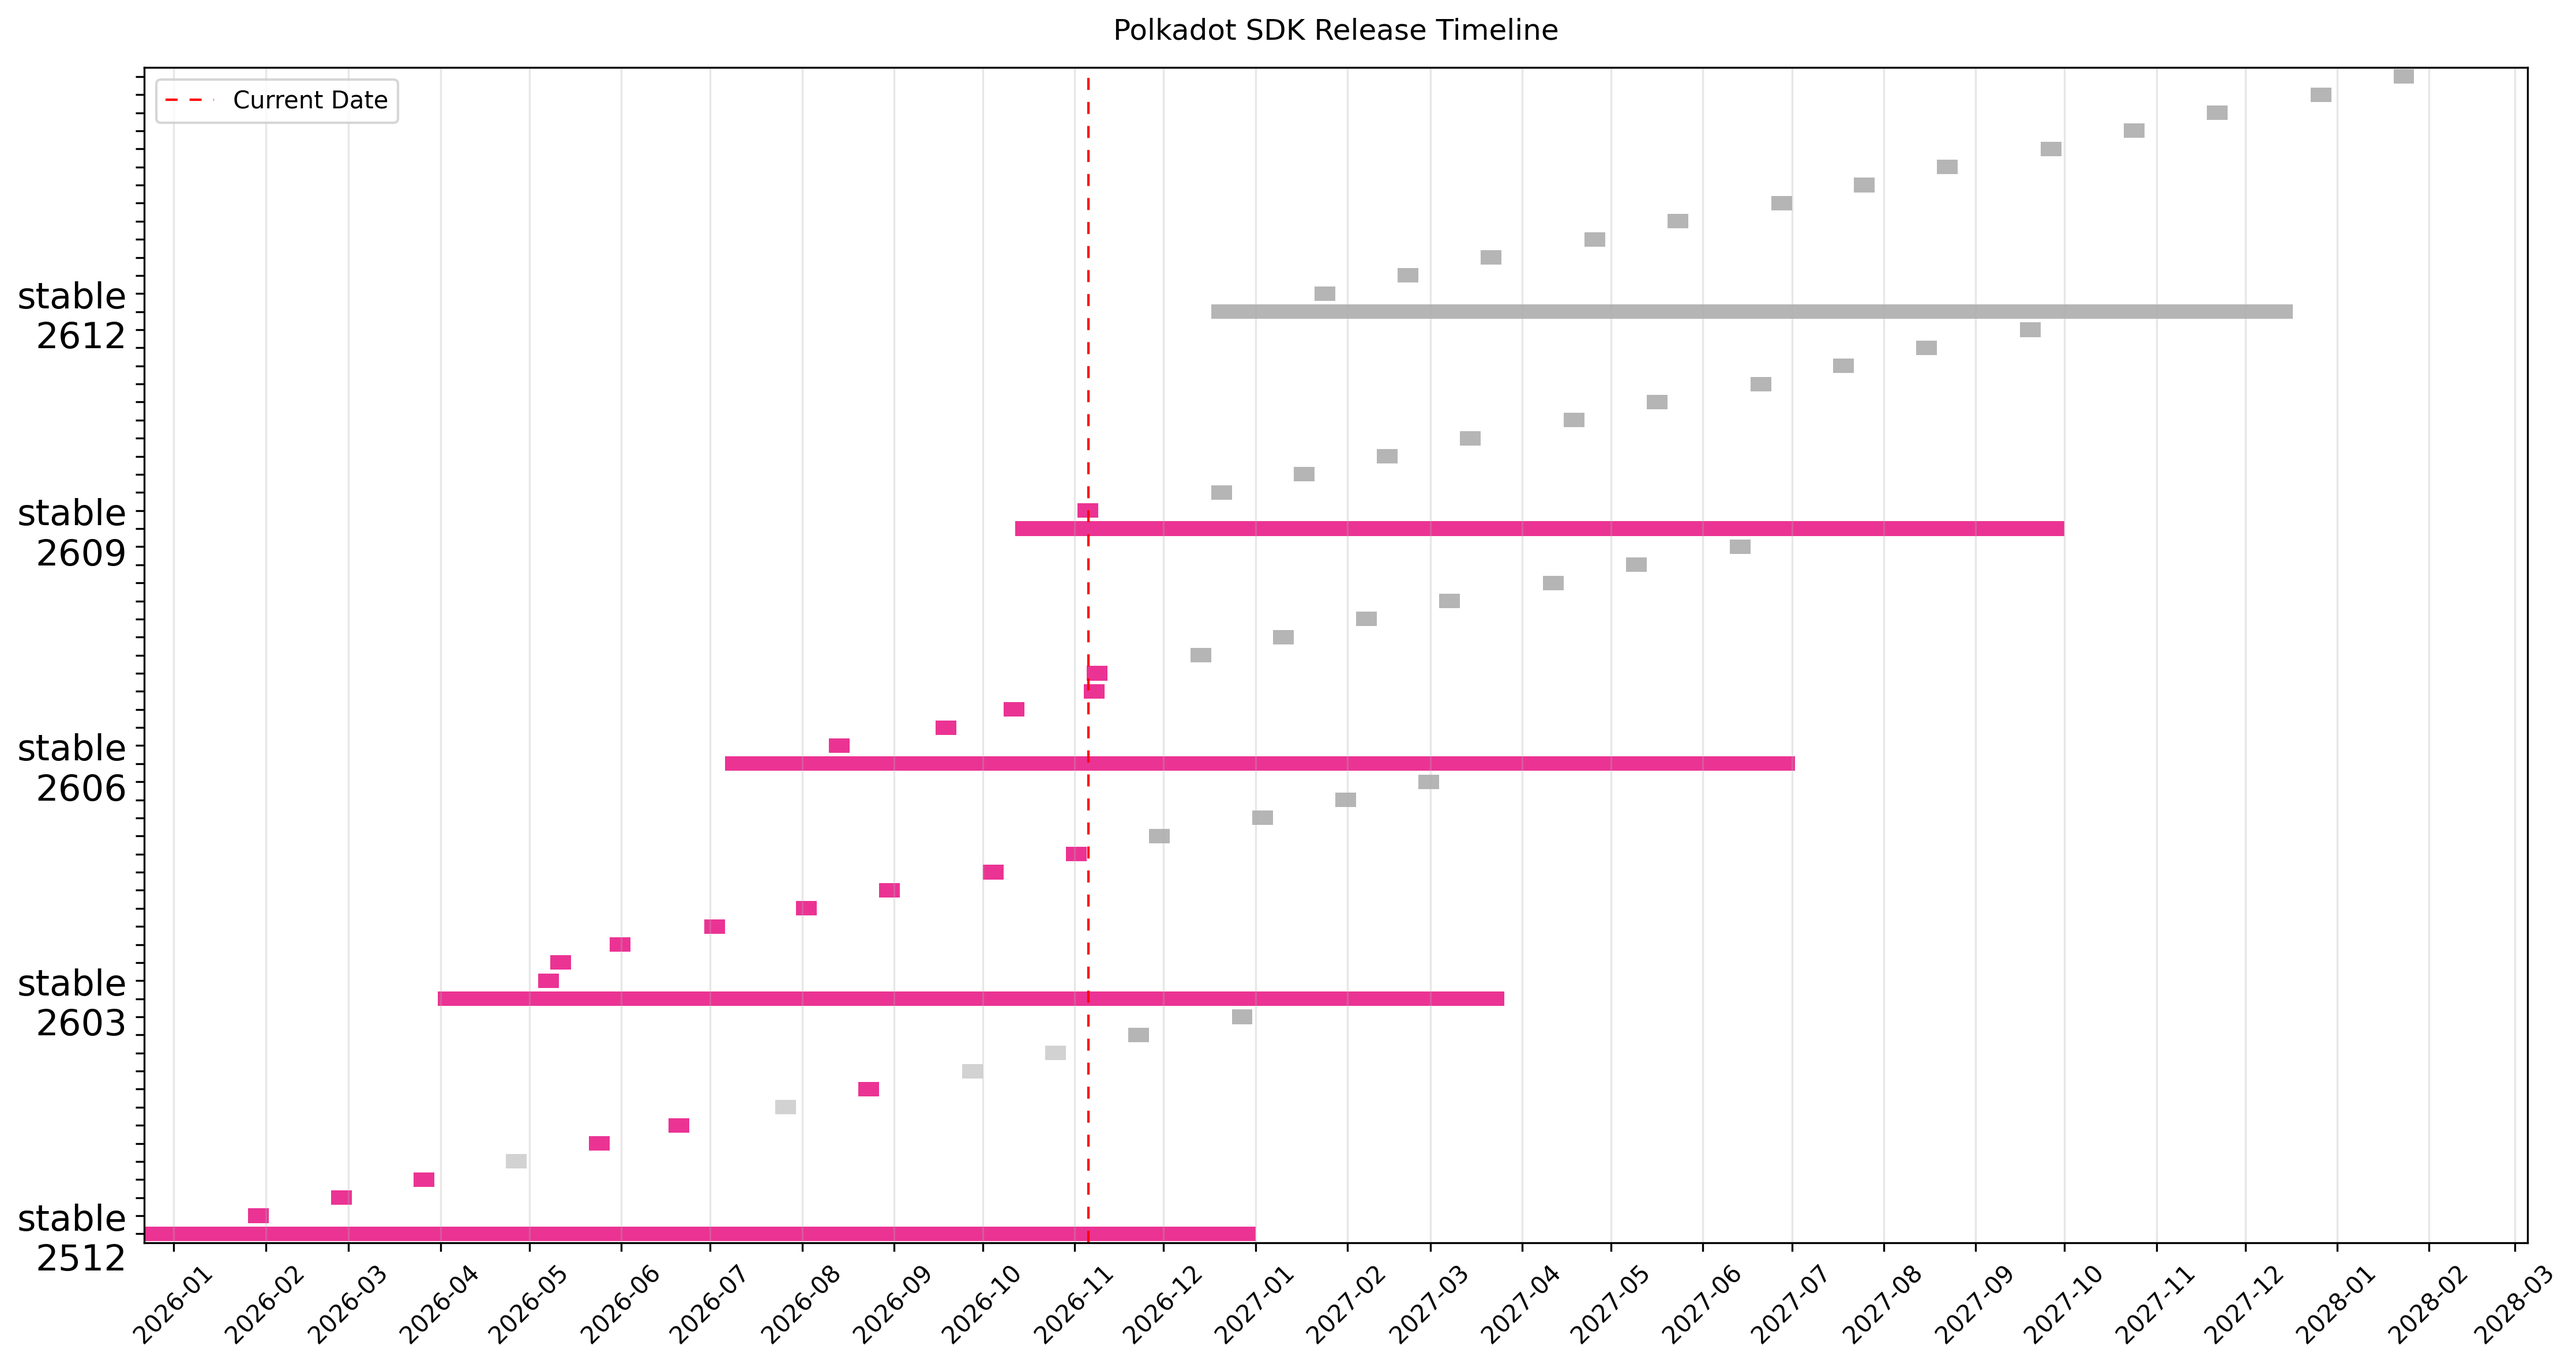
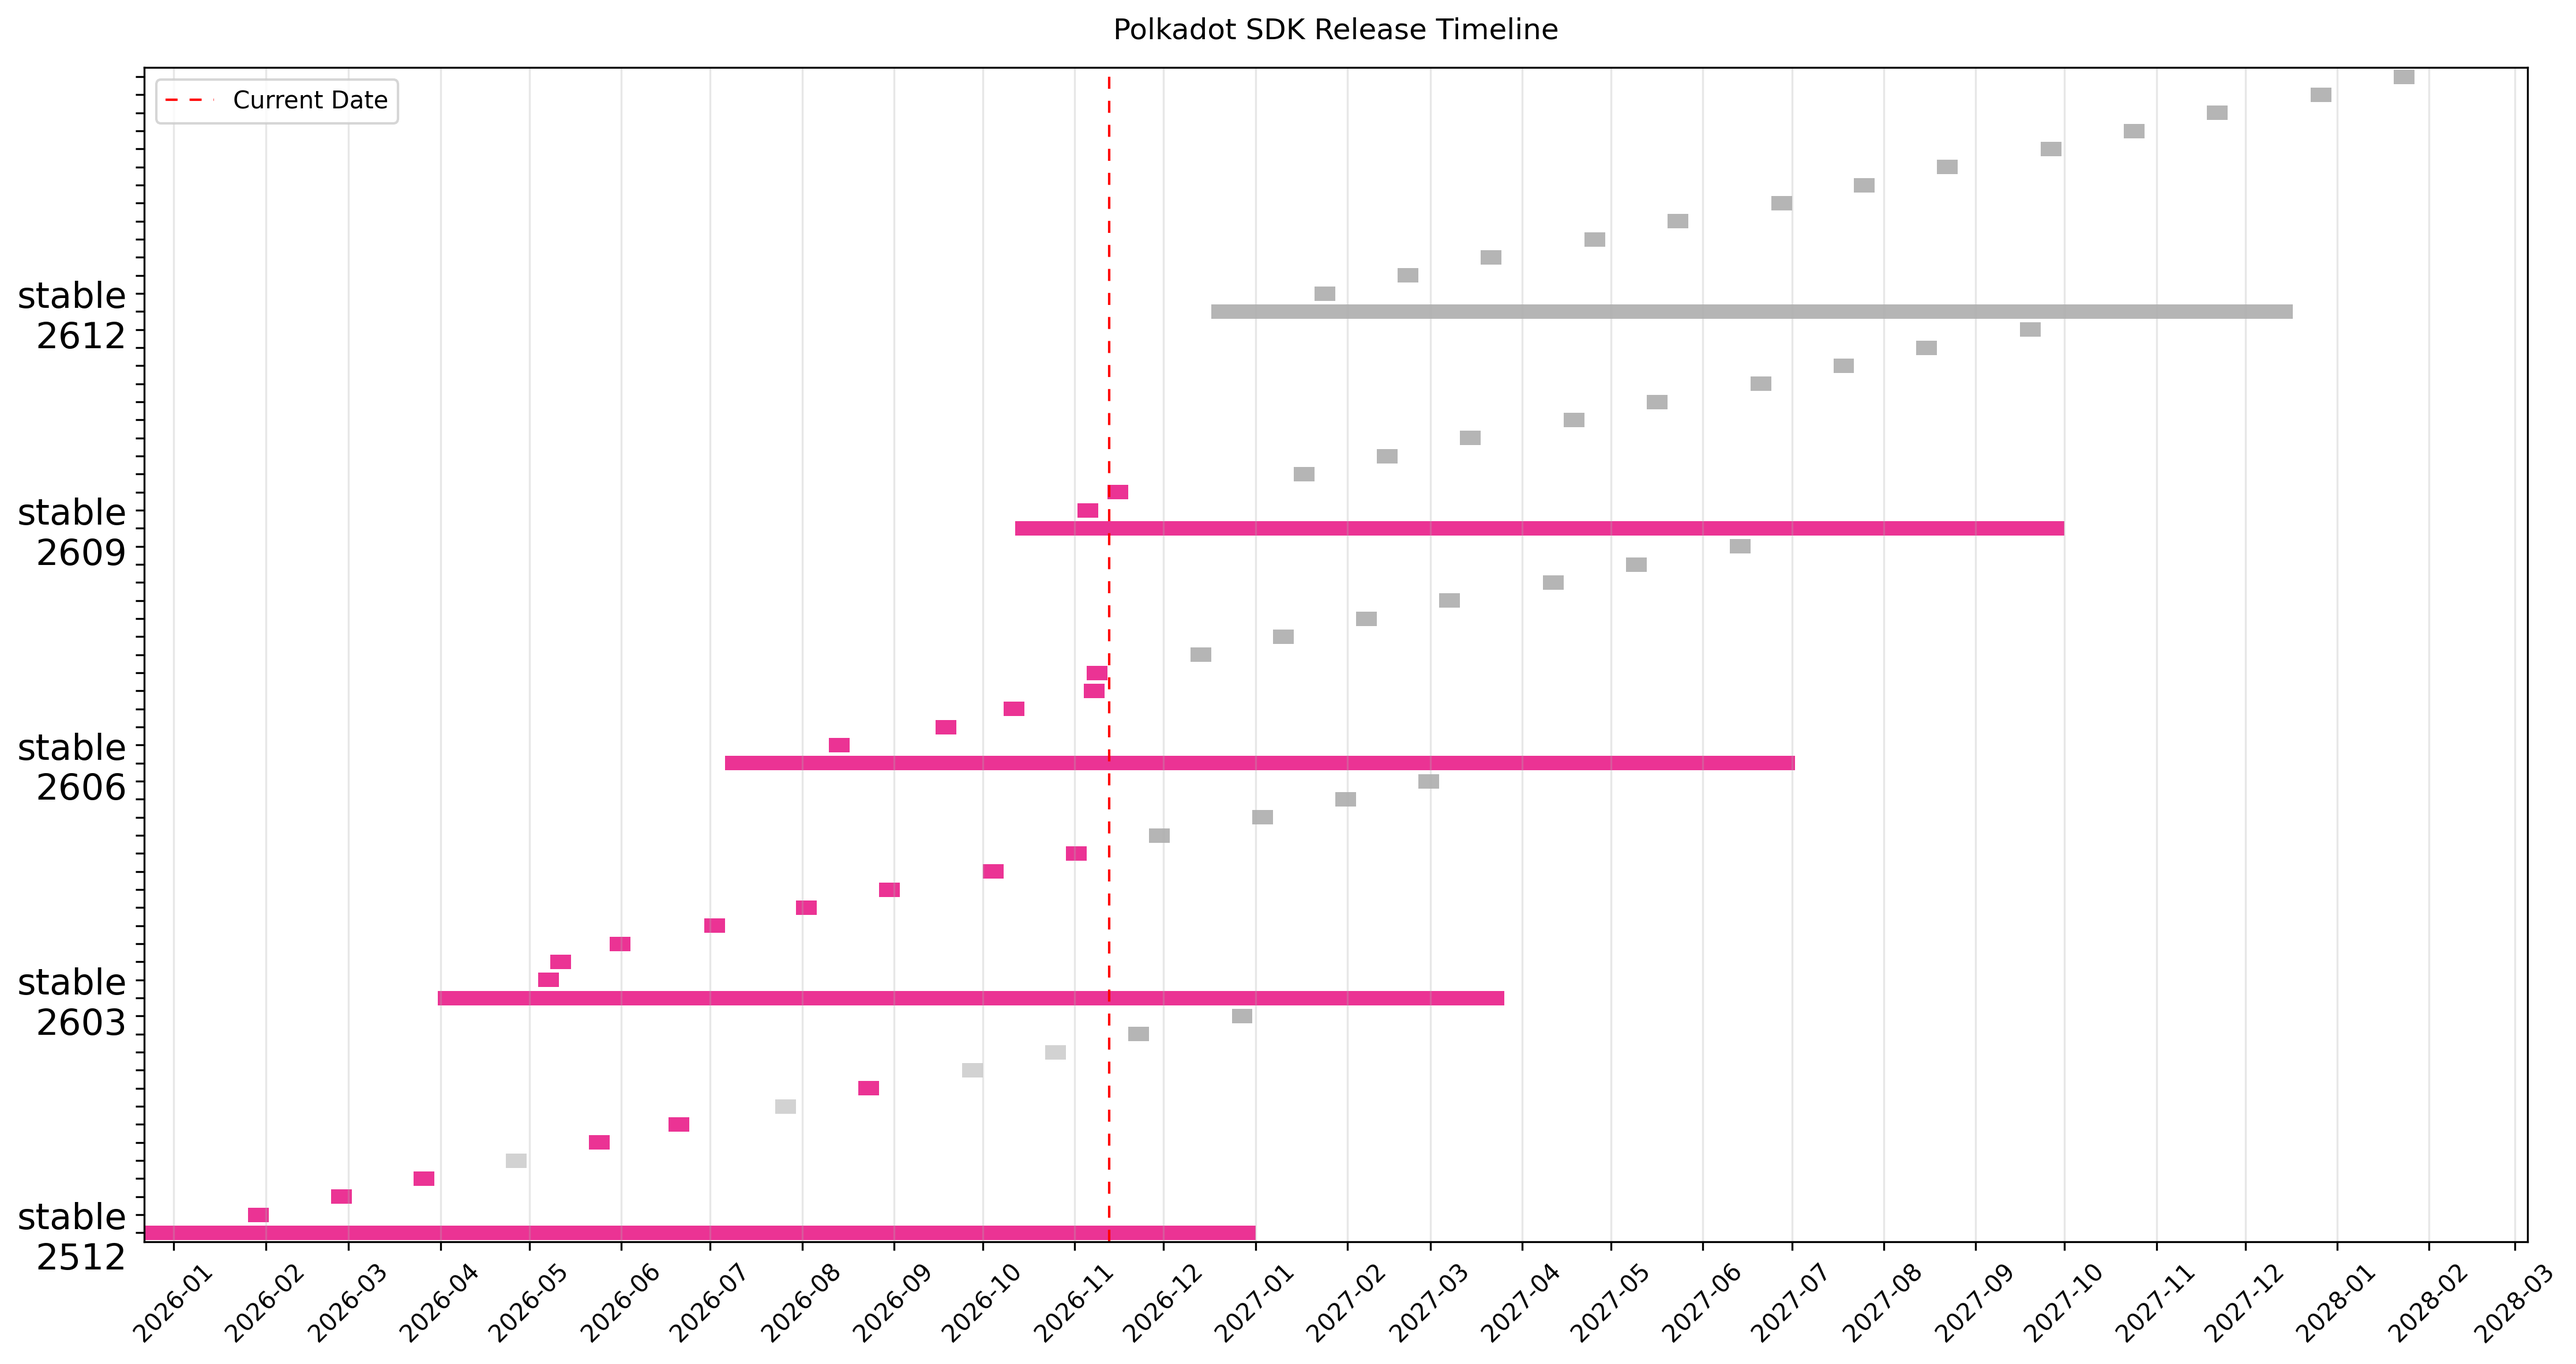
Release stable2609-2

diff --git a/README.md b/README.md
@@ -26,9 +26,10 @@ Planned and historic release dates:
 | &nbsp;&nbsp;[11 more planned](CALENDAR.md) |  |  | | |
 | **stable2609** | 1.25.0 | 2026-08-17 | 2026-10-12 | 2027-10-01 | [Released](https://github.com/paritytech/polkadot-sdk/releases/tag/polkadot-stable2609) |
 | &nbsp;&nbsp;stable2609-1 | 1.25.1 | 2026-11-02 | 2026-11-02 |  | [Released](https://github.com/paritytech/polkadot-sdk/releases/tag/polkadot-stable2609-1) |
-| &nbsp;&nbsp;stable2609-2 | 1.25.2 | 2026-12-14 | 2026-12-17 |  | Planned |
+| &nbsp;&nbsp;stable2609-2 | 1.25.2 | 2026-11-12 | 2026-11-12 |  | [Released](https://github.com/paritytech/polkadot-sdk/releases/tag/polkadot-stable2609-2) |
 | &nbsp;&nbsp;stable2609-3 | 1.25.3 | 2027-01-11 | 2027-01-14 |  | Planned |
-| &nbsp;&nbsp;[8 more planned](CALENDAR.md) |  |  | | |
+| &nbsp;&nbsp;stable2609-4 | 1.25.4 | 2027-02-08 | 2027-02-11 |  | Planned |
+| &nbsp;&nbsp;[7 more planned](CALENDAR.md) |  |  | | |
 | **stable2606** | 1.24.0 | 2026-05-18 | 2026-07-06 | 2027-07-02 | [Released](https://github.com/paritytech/polkadot-sdk/releases/tag/polkadot-stable2606) |
 | &nbsp;&nbsp;stable2606-4 | 1.24.4 | 2026-11-04 | 2026-11-04 |  | [Released](https://github.com/paritytech/polkadot-sdk/releases/tag/polkadot-stable2606-4) |
 | &nbsp;&nbsp;stable2606-5 | 1.24.5 | 2026-11-05 | 2026-11-05 |  | [Released](https://github.com/paritytech/polkadot-sdk/releases/tag/polkadot-stable2606-5) |

diff --git a/CALENDAR.md b/CALENDAR.md
@@ -24,7 +24,7 @@ Full untruncated version index.
 | &nbsp;&nbsp;stable2612-13 | 1.26.13 | 2028-01-17 | 2028-01-20 |  | Planned |
 | **stable2609** | 1.25.0 | 2026-08-17 | 2026-10-12 | 2027-10-01 | [Released](https://github.com/paritytech/polkadot-sdk/releases/tag/polkadot-stable2609) |
 | &nbsp;&nbsp;stable2609-1 | 1.25.1 | 2026-11-02 | 2026-11-02 |  | [Released](https://github.com/paritytech/polkadot-sdk/releases/tag/polkadot-stable2609-1) |
-| &nbsp;&nbsp;stable2609-2 | 1.25.2 | 2026-12-14 | 2026-12-17 |  | Planned |
+| &nbsp;&nbsp;stable2609-2 | 1.25.2 | 2026-11-12 | 2026-11-12 |  | [Released](https://github.com/paritytech/polkadot-sdk/releases/tag/polkadot-stable2609-2) |
 | &nbsp;&nbsp;stable2609-3 | 1.25.3 | 2027-01-11 | 2027-01-14 |  | Planned |
 | &nbsp;&nbsp;stable2609-4 | 1.25.4 | 2027-02-08 | 2027-02-11 |  | Planned |
 | &nbsp;&nbsp;stable2609-5 | 1.25.5 | 2027-03-08 | 2027-03-11 |  | Planned |
